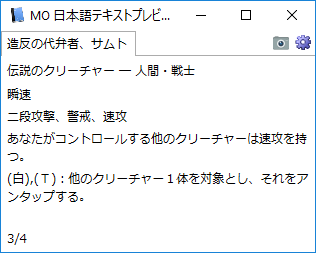
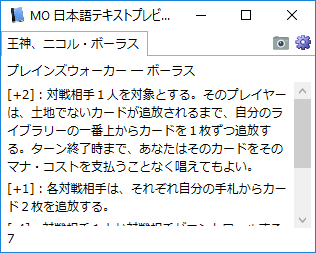
スクショを更新。スクショ用のテスト入力欄を設定ダイアログに追加

diff --git a/mojp/OptionDialog.xaml b/mojp/OptionDialog.xaml
@@ -160,8 +160,10 @@
 				<RowDefinition Height="Auto" />
 				<RowDefinition Height="Auto" />
 				<RowDefinition Height="5" />
-				<RowDefinition Height="Auto" />
-			</Grid.RowDefinitions>
+                <RowDefinition Height="Auto" />
+                <RowDefinition Height="5" />
+                <RowDefinition Height="Auto" />
+            </Grid.RowDefinitions>
 			<TextBlock>
 				<Hyperlink ToolTip="http://whisper.wisdom-guild.net/" Click="OnClickHyperlink">Wisdom Guild</Hyperlink>
 				<Run> で「出力形式」を「テキスト」にしてカード検索し、</Run>
@@ -179,6 +181,15 @@
 				<Button Click="OnBrowseSearchTxt">検索結果テキストの読み込み..</Button>
 				<Image Name="imgLoaded" Source="Resources/Checkmark.png" Height="20" Margin="5,0,5,0" Visibility="Collapsed" />
 			</StackPanel>
+            <Grid Grid.Row="5">
+                <Grid.ColumnDefinitions>
+                    <ColumnDefinition Width="Auto" />
+                    <ColumnDefinition />
+                </Grid.ColumnDefinitions>
+                <TextBlock Margin="0,0,10,0">テスト</TextBlock>
+                <TextBox Grid.Column="1" VerticalContentAlignment="Center" 
+                         Text="{Binding SelectedCard.Name, Mode=OneWay}" KeyDown="OnTestBoxKeyDown" />
+            </Grid>
 		</Grid>
 		<Button Margin="0,10,0,0" Padding="10,2" HorizontalAlignment="Right" IsCancel="True">OK</Button>
 	</StackPanel>

diff --git a/mojp/OptionDialog.xaml.cs b/mojp/OptionDialog.xaml.cs
@@ -3,78 +3,111 @@ using System.Diagnostics;
 using System.IO;
 using System.Text;
 using System.Windows;
+using System.Windows.Controls;
 using System.Windows.Documents;
+using System.Windows.Input;
 using System.Windows.Media;
 using Microsoft.Win32;
 
 namespace Mojp
 {
-	/// <summary>
-	/// このアプリケーションの設定ダイアログを表します。
-	/// </summary>
-	public partial class OptionDialog : Window
-	{
-		public OptionDialog(object viewModel)
-		{
-			InitializeComponent();
+    /// <summary>
+    /// このアプリケーションの設定ダイアログを表します。
+    /// </summary>
+    public partial class OptionDialog : Window
+    {
+        public OptionDialog(object viewModel)
+        {
+            InitializeComponent();
 
-			var vm = viewModel as MainViewModel;
-			var fonts = Fonts.SystemFontFamilies;
-			var fontNames = new List<string>(fonts.Count);
-			var lang = this.Language;
+            var vm = viewModel as MainViewModel;
+            var fonts = Fonts.SystemFontFamilies;
+            var fontNames = new List<string>(fonts.Count);
+            var lang = this.Language;
 
-			foreach (var font in fonts)
-			{
-				// フォント名に日本語があるなら、それを使う
-				string source;
-				if (!font.FamilyNames.TryGetValue(lang, out source))
-					source = font.Source;
+            foreach (var font in fonts)
+            {
+                // フォント名に日本語があるなら、それを使う
+                string source;
+                if (!font.FamilyNames.TryGetValue(lang, out source))
+                    source = font.Source;
 
-				fontNames.Add(source);
+                fontNames.Add(source);
 
-				// フォント名を日本語で表示する前のバージョンのための措置 (~ 1.2.11030.7)
-				if (font.Source == vm.FontFamily)
-					vm.FontFamily = source;
-			}
-			fontNames.Sort();
-			this.cmbFonts.ItemsSource = fontNames;
-			
-			this.DataContext = vm;
-		}
+                // フォント名を日本語で表示する前のバージョンのための措置 (~ 1.2.11030.7)
+                if (font.Source == vm.FontFamily)
+                    vm.FontFamily = source;
+            }
+            fontNames.Sort();
+            this.cmbFonts.ItemsSource = fontNames;
 
-		/// <summary>
-		/// WHISPER の検索結果を格納したテキストファイルからカードテキストデータを構築します。必要なら永続化します。
-		/// </summary>
-		private void OnBrowseSearchTxt(object sender, RoutedEventArgs e)
-		{
-			imgLoaded.Visibility = Visibility.Collapsed;
+            this.DataContext = vm;
+        }
 
-			var dlg = new OpenFileDialog();
-			dlg.FileName = "search.txt";
-			dlg.CheckFileExists = true;
-			dlg.Filter = "すべてのファイル (*.*)|*.*";
+        /// <summary>
+        /// WHISPER の検索結果を格納したテキストファイルからカードテキストデータを構築します。必要なら永続化します。
+        /// </summary>
+        private void OnBrowseSearchTxt(object sender, RoutedEventArgs e)
+        {
+            imgLoaded.Visibility = Visibility.Collapsed;
 
-			if (dlg.ShowDialog(this) == true)
-			{
-				using (var stream = dlg.OpenFile())
-				using (var sr = new StreamReader(stream, Encoding.GetEncoding("shift-jis")))
-				{
-					App.SetCardInfosFromWhisper(sr);
+            var dlg = new OpenFileDialog();
+            dlg.FileName = "search.txt";
+            dlg.CheckFileExists = true;
+            dlg.Filter = "すべてのファイル (*.*)|*.*";
 
-					if (File.Exists("appendix.xml"))
-						App.FixCardInfo("appendix.xml");
+            if (dlg.ShowDialog(this) == true)
+            {
+                using (var stream = dlg.OpenFile())
+                using (var sr = new StreamReader(stream, Encoding.GetEncoding("shift-jis")))
+                {
+                    App.SetCardInfosFromWhisper(sr);
 
-					if (cbxSaveDb.IsChecked == true)
-						App.SaveAsXml("cards.xml");
+                    if (File.Exists("appendix.xml"))
+                        App.FixCardInfo("appendix.xml");
 
-					imgLoaded.Visibility = Visibility.Visible;
-				}
-			}
-		}
+                    if (cbxSaveDb.IsChecked == true)
+                        App.SaveAsXml("cards.xml");
 
-		private void OnClickHyperlink(object sender, RoutedEventArgs e)
-		{
-			Process.Start((sender as Hyperlink).ToolTip.ToString());
-		}
-	}
+                    imgLoaded.Visibility = Visibility.Visible;
+                }
+            }
+        }
+
+        private void OnClickHyperlink(object sender, RoutedEventArgs e)
+        {
+            Process.Start((sender as Hyperlink).ToolTip.ToString());
+        }
+
+        private void OnTestBoxKeyDown(object sender, KeyEventArgs e)
+        {
+            if (e.Key != Key.Enter)
+                return;
+
+            var tbx = sender as TextBox;
+
+            if (tbx.Text == null)
+                return;
+
+            if (!App.Cards.TryGetValue(tbx.Text, out var target))
+            {
+                foreach (var card in App.Cards.Values)
+                {
+                    if (card.JapaneseName == tbx.Text)
+                    {
+                        target = card;
+                        break;
+                    }
+                }
+            }
+
+            if (target != null)
+            {
+                var vm = DataContext as MainViewModel;
+                vm.Cards.Clear();
+                vm.Cards.Add(target);
+                vm.SelectedIndex = 0;
+            }
+        }
+    }
 }
